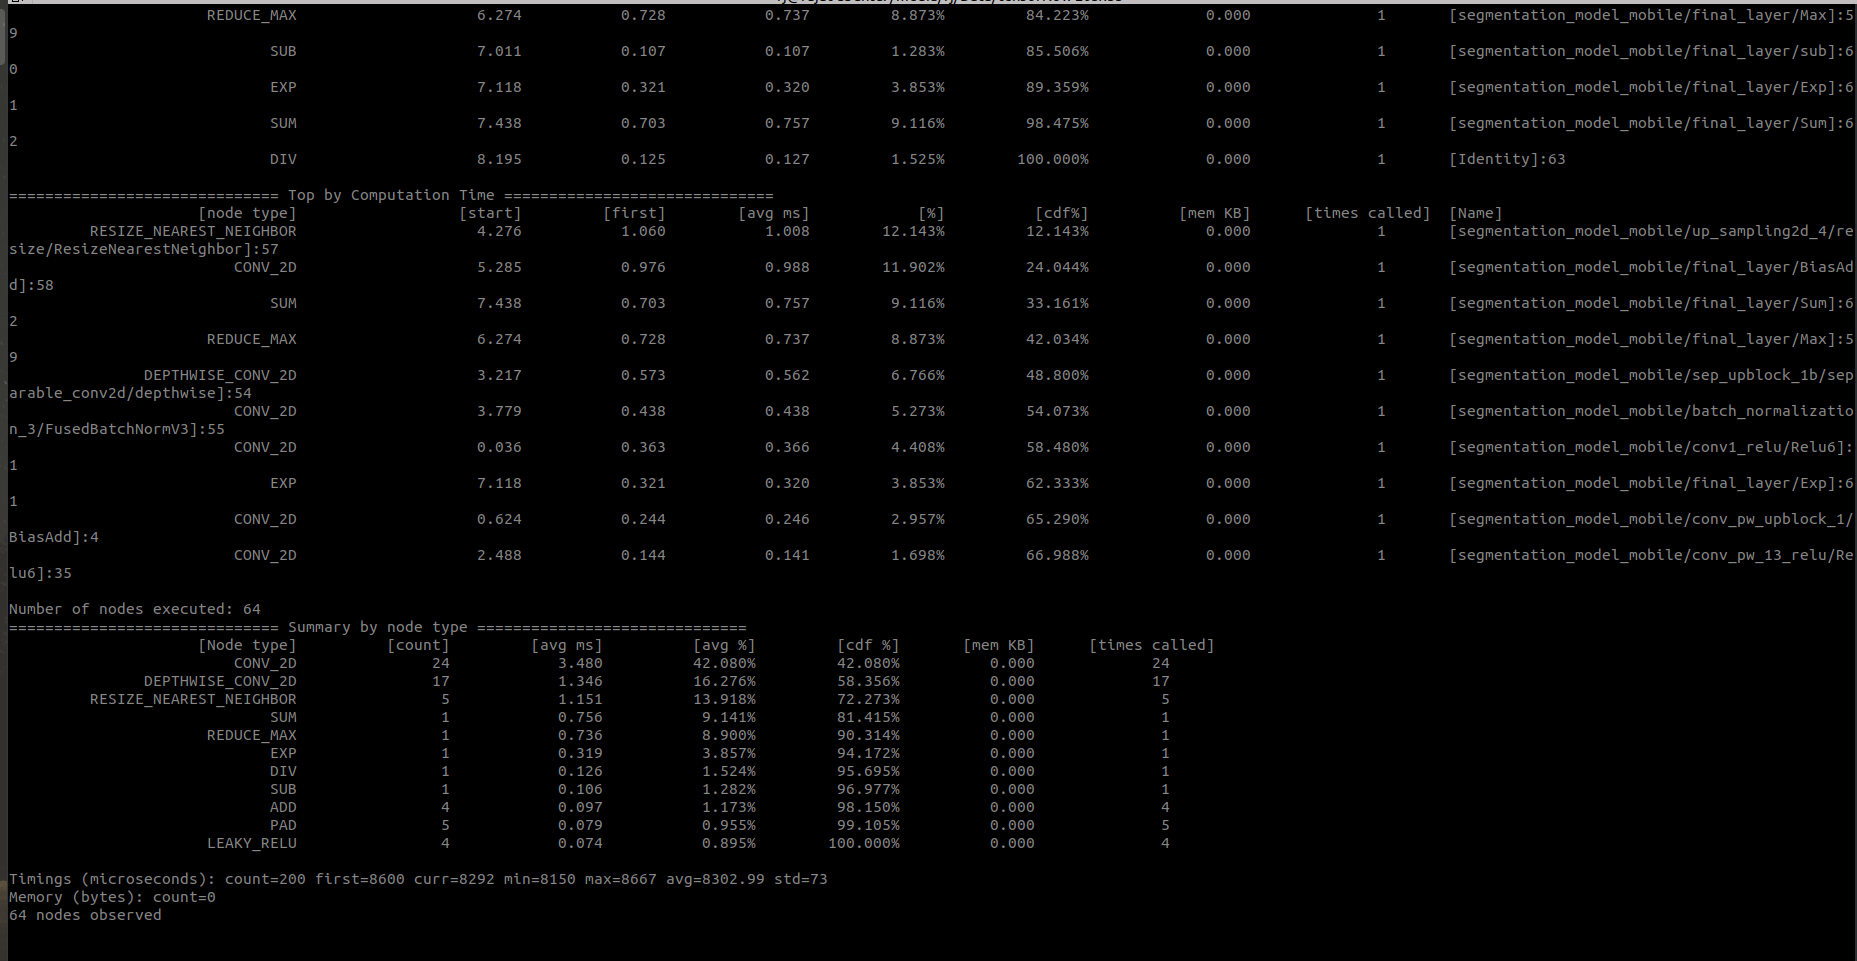
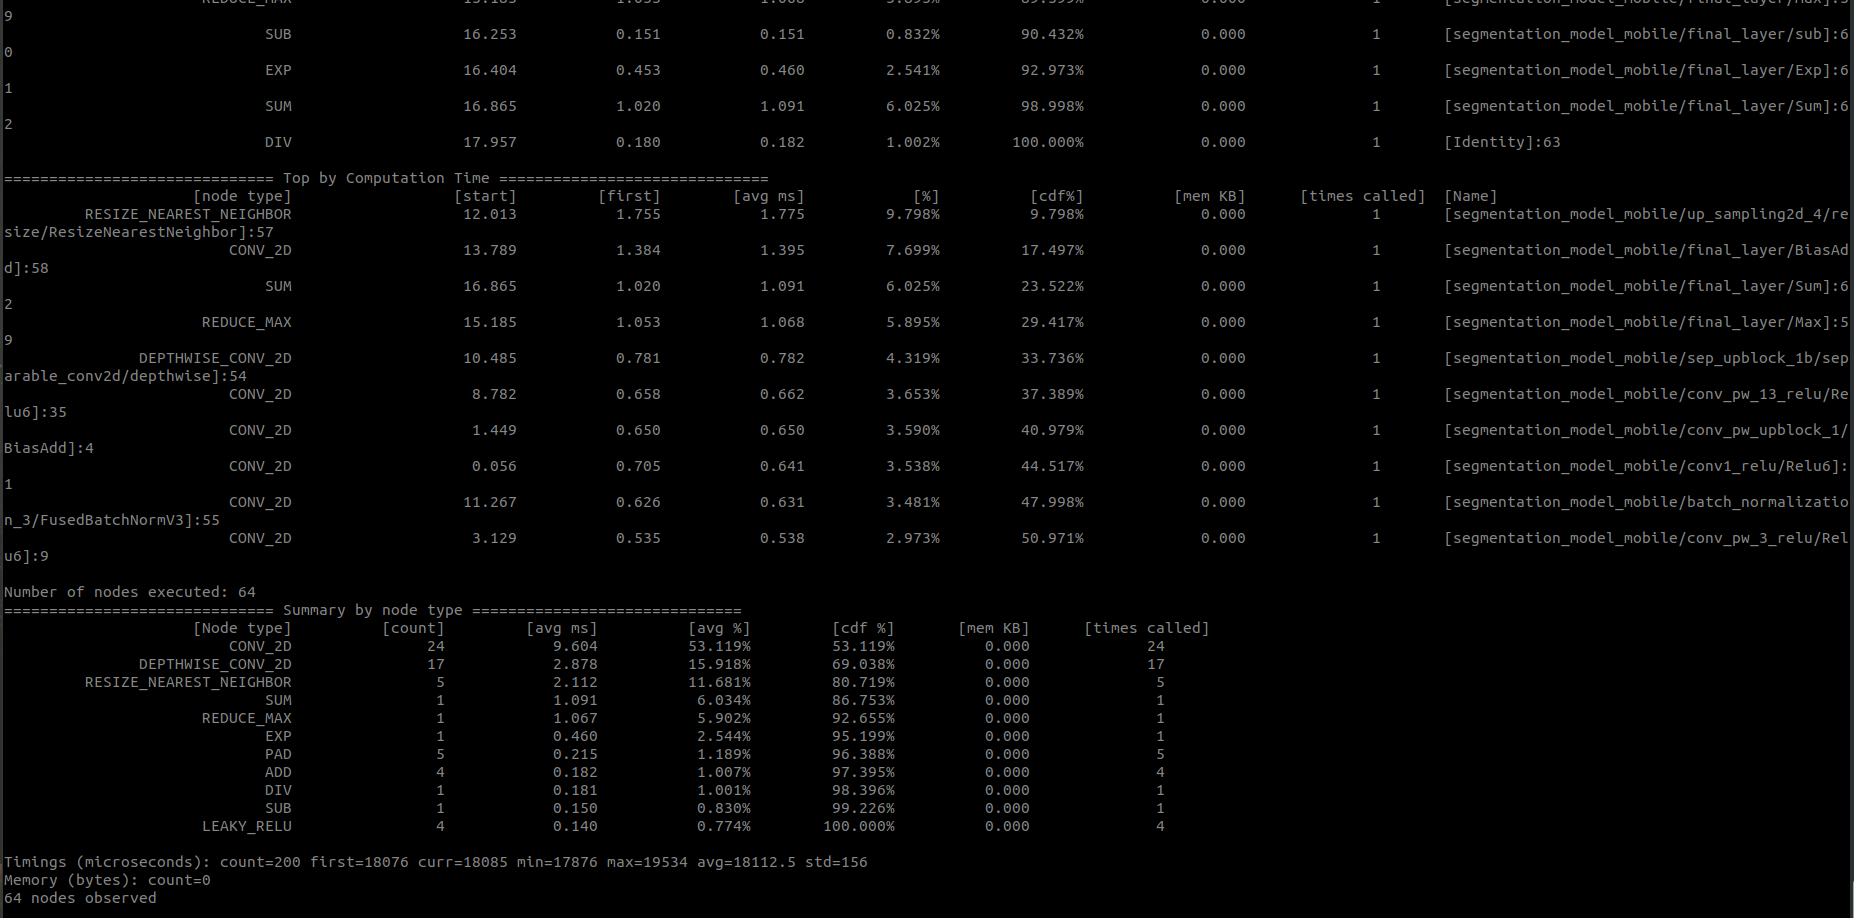
update

diff --git a/model.py b/model.py
@@ -24,9 +24,9 @@ def conv_pw(x, filters, name='layer'):
     return x
 
 
-def get_upblock(x, mm, layer_name, name='4'):
+def upblock(x, mobilenet, layer_name, name='4'):
 
-    y = mm.get_layer(name=layer_name).output
+    y = mobilenet.get_layer(name=layer_name).output
     y = conv_pw(y, 32, name='upblock_'+name)
 
     x = layers.UpSampling2D(size=(2, 2))(x)
@@ -40,19 +40,19 @@ def get_upblock(x, mm, layer_name, name='4'):
 def segmentation_model(input_shape=(160, 160, 3), numclass=2):
 
     input_layer = layers.Input(shape=input_shape)
-    mm = MobileNet(weights="imagenet", alpha=0.25,
-                   input_tensor=input_layer, include_top=False)
+    mobilenet = MobileNet(weights="imagenet", alpha=0.5,
+                          input_tensor=input_layer, include_top=False)
 
-    for layer in mm.layers:
+    for layer in mobilenet.layers:
         layer.trainable = True
 
     # Defining custom decoder which is fast and small
-    cn = conv_pw(mm.output, filters=32, name='mobile_bottleneck')
+    bn = conv_pw(mobilenet.output, filters=32, name='mobile_bottleneck')
 
-    x = get_upblock(cn, mm, 'conv_pw_11_relu', name='4')
-    x = get_upblock(x, mm, 'conv_pw_5_relu', name='3')
-    x = get_upblock(x, mm, 'conv_pw_3_relu', name='2')
-    x = get_upblock(x, mm, 'conv_pw_1_relu', name='1')
+    x = upblock(bn, mobilenet, 'conv_pw_11_relu', name='4')
+    x = upblock(x, mobilenet, 'conv_pw_5_relu', name='3')
+    x = upblock(x, mobilenet, 'conv_pw_3_relu', name='2')
+    x = upblock(x, mobilenet, 'conv_pw_1_relu', name='1')
 
     x = layers.UpSampling2D(size=(2, 2))(x)
 

diff --git a/utils.py b/utils.py
@@ -25,7 +25,6 @@ def load_image(path, size=(None, None), rgb=True):
 
 
 def resize_mask(image, mask):
-    print(image.shape, mask.shape)
     mask = cv2.resize(mask, image.shape[:2][::-1])
     return np.expand_dims(mask, -1)
 
@@ -36,7 +35,6 @@ def apply_color(image, mask, color_rgb=[255, 0, 0]):
     color = color/255.
     if mask.shape[:2] != image.shape[:2]:
         mask = resize_mask(image, mask)
-    print(image.shape, mask.shape, color.shape)
     background = image*(1-mask)
     foreground = (mask*image)*color_rgb
     return np.clip(foreground + background, 0, 1)

diff --git a/train.py b/train.py
@@ -22,8 +22,8 @@ PATH = "./data"
 TRAIN_CSV = "train.csv"
 TEST_CSV = "valid.csv"
 
-WEIGHT_FILENAME = "hair_segmentation_mobile_big.h5"
-INPUT_SIZE = 224
+WEIGHT_FILENAME = "hair_segmentation_mobile.h5"
+INPUT_SIZE = 192
 BATCH_SIZE = 32
 
 

diff --git a/README.md b/README.md
@@ -41,7 +41,7 @@ python demo.py --image_path test_image.jpg --color 255 0 0 --output_path output.
 
 ## Speed Profiling
 
-I have done speed profiling of this model on **Oneplus 7** using [tensorflow benchmark tool](https://github.com/tensorflow/tensorflow/tree/master/tensorflow/lite/tools/benchmark). You can see this model takes average of **8.3 ms** i.e it runs at **120 fps**.
+I have done speed profiling of this model on **Oneplus 7** using [tensorflow benchmark tool](https://github.com/tensorflow/tensorflow/tree/master/tensorflow/lite/tools/benchmark). You can see this model takes average of **18.1 ms** per image i.e it runs at **55 fps**.
 
 <p align="center">
   <img src='media/profile.png' width="1000" height="400">
